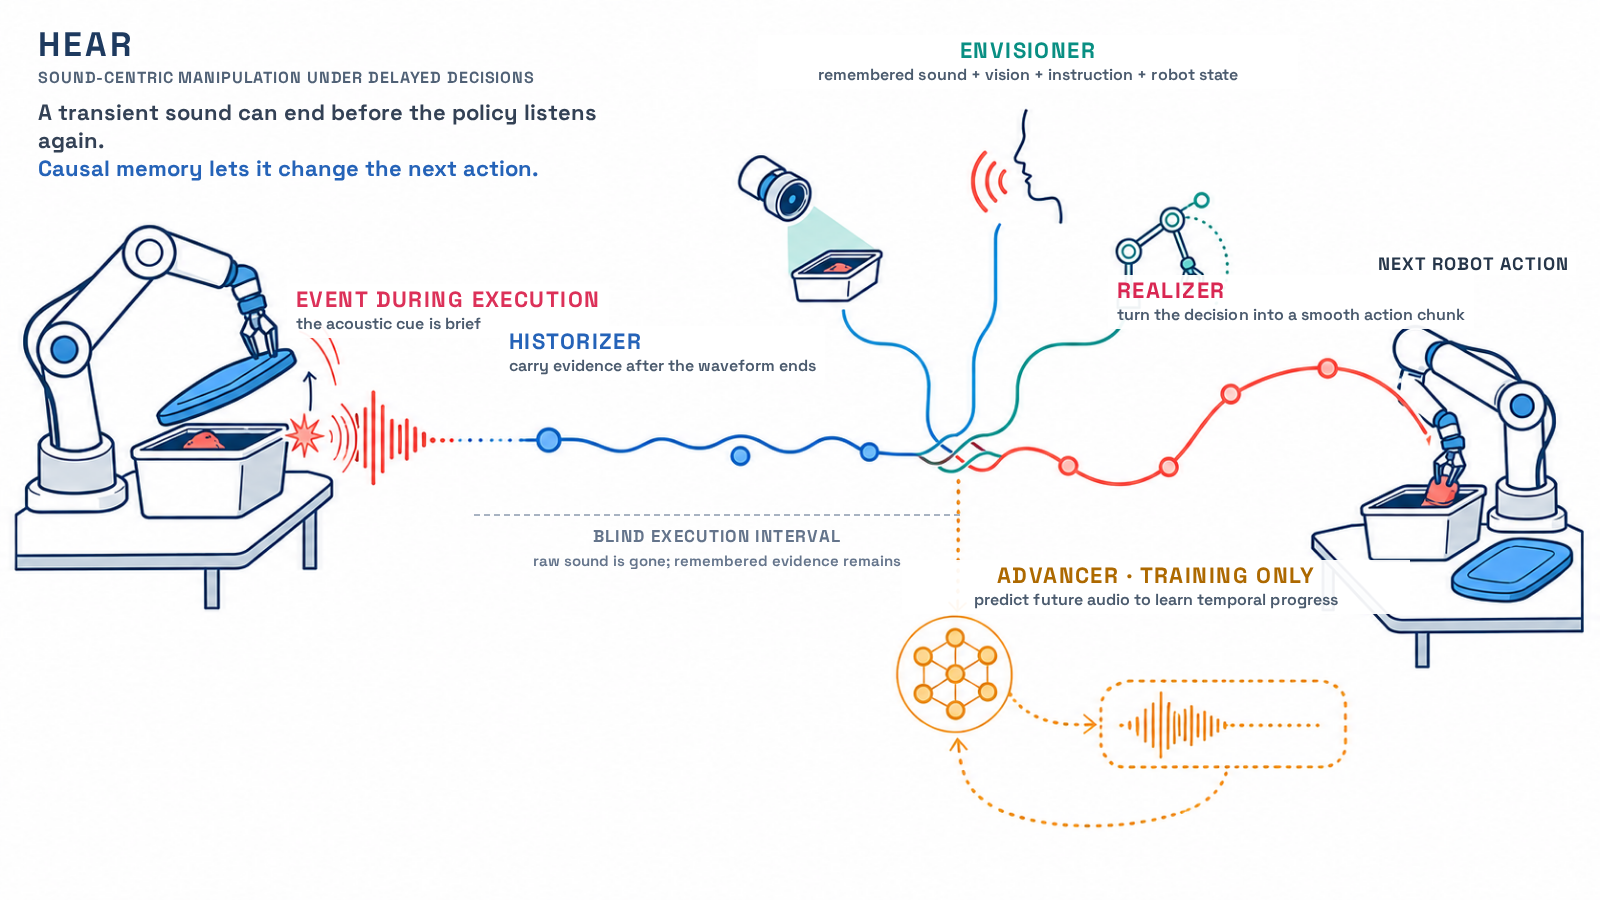
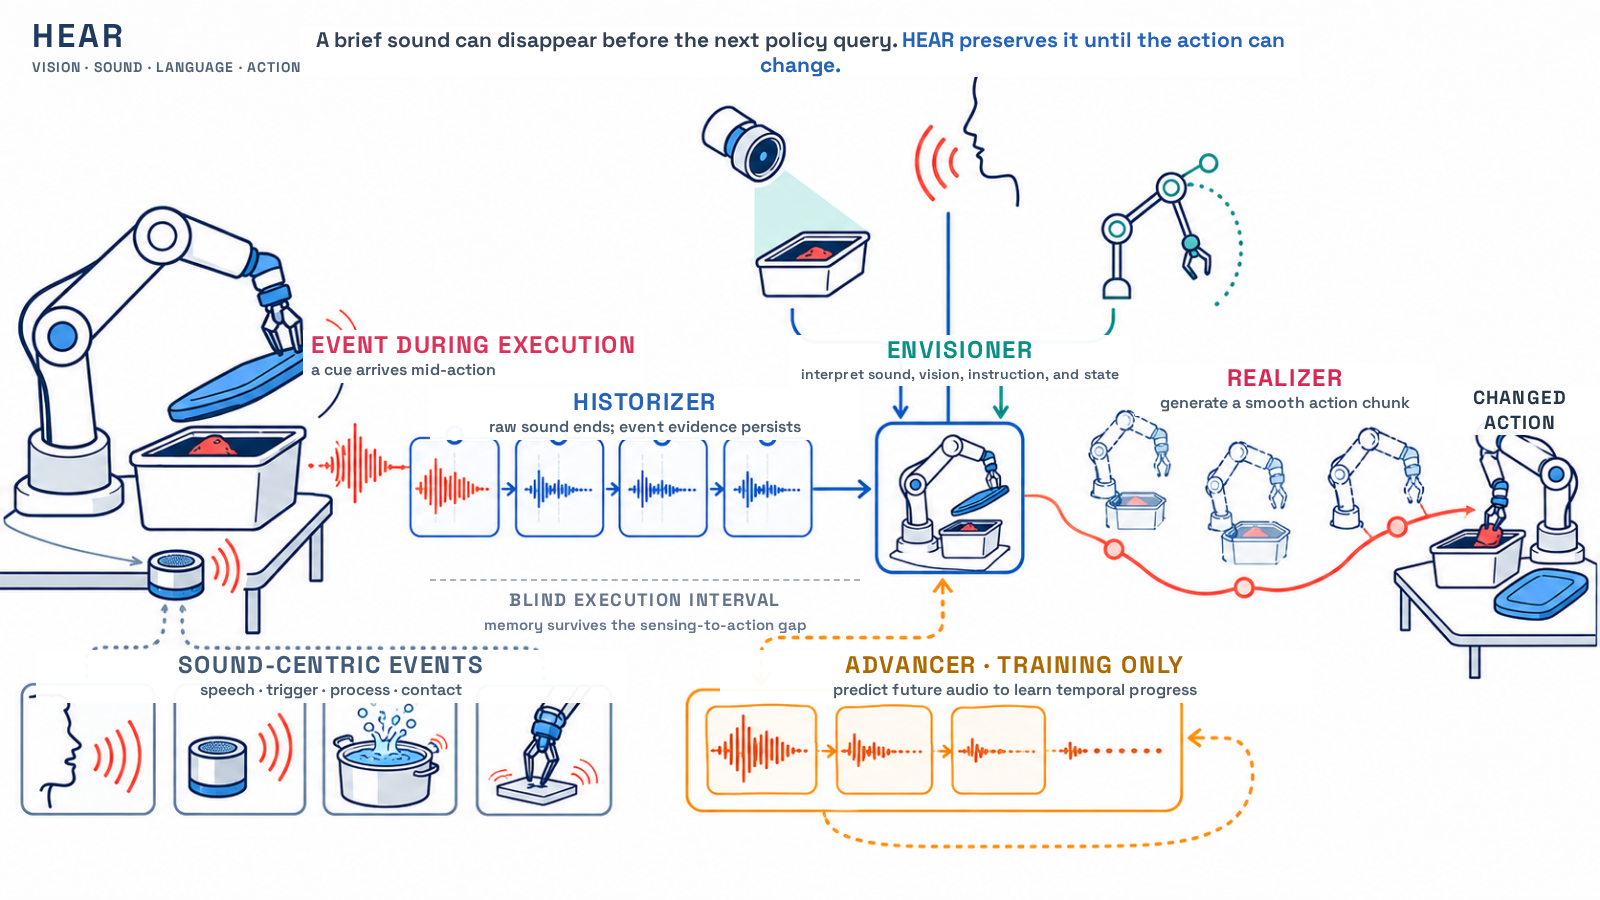
feat: make HEAR cover concrete and compact

diff --git a/assets/media/paper-covers/README.md b/assets/media/paper-covers/README.md
@@ -2,9 +2,9 @@
 
 The current cover redesign is being reviewed one paper at a time. `scripts/build-publication-covers.mjs` currently renders only the HEAR graphical-abstract sample. Its exact English labels are browser-rendered rather than generated pixels.
 
-## HEAR concept reconstruction sample
+## HEAR compact concept reconstruction sample
 
-`hear-concept-reconstruction-base-v4.png` was created with the built-in image-generation tool after reading the scientific meaning expressed by the paper's Figure 1 caption, Figure 2 caption, motivation, and architectural-overview prose in `/DataBig/hear_ijrr/HEAR_IJRR.tex`. The paper figures themselves were deliberately not supplied as visual references: this version reconstructs the causal story instead of copying their panel or block-diagram organization. The generated layer contains no typography; `scripts/build-publication-covers.mjs` overlays all exact English terminology and explanation deterministically.
+`hear-concrete-compact-base-v5.png` was created with the built-in image-generation tool after reading the scientific meaning expressed by the paper's Figure 1 caption, Figure 2 caption, motivation, and architectural-overview prose in `/DataBig/hear_ijrr/HEAR_IJRR.tex`. The paper figures themselves were deliberately not supplied as visual references: this version reconstructs the causal story instead of copying their panel or block-diagram organization. The generated layer contains no typography; `scripts/build-publication-covers.mjs` overlays all exact English terminology and explanation deterministically.
 
 Initial generation prompt:
 
@@ -29,6 +29,25 @@ Targeted refinement prompt:
 > Invariants: keep the left physical robot scene, the single coral sound event, the fact that the coral waveform ends, the blue persistent memory thread spanning time, the right coral smooth-action trajectory and later robot pose, the amber dotted training-only future-waveform loop, the pure white background, the wide asymmetrical composition, and all existing causal directions. Do not add any modules or claims.
 > Text constraints: no words, letters, numbers, equations, pseudo-text, logos, or watermarks.
 > Avoid: architecture boxes, stacked cards, circular input bubbles, speech bubbles, logo-like central symbols, neural-network dashboards, 3D, gradients, glow, neon, photorealism, advertising polish, decorative particles.
+
+Compact and concrete refinement prompt:
+
+> Use case: scientific-educational
+> Asset type: targeted refinement of the supplied 16:9 HEAR graphical-abstract base
+> Input image: edit target. Preserve its original causal story, white background, flat line-art language, and blue/teal/coral/amber semantics.
+> Primary request: Make the composition substantially denser and more concrete without turning it into a block diagram. Enlarge the meaningful visual content so it occupies roughly 85 percent of the canvas height and most of the width. Bring the two robot task scenes closer to the central reasoning area, reduce the long empty stretches of signal line, and move the amber training branch upward into the lower-middle region. Leave only a compact header-safe band at the top and small label-safe gaps around the causal stages; do not leave a large empty top half or empty lower-left quadrant.
+> Concrete scientific detail:
+> 1. At the left, make the short acoustic event visibly originate from a recognizable tabletop interaction while the robot is already moving. Keep the same robot, container, object, and sound pulse; add only a small physical event cue such as lid contact or a compact timer/speaker device, not a fantasy energy effect.
+> 2. Replace the mostly empty blue wavy span with a compact sequence of four small causal audio-memory packets. The first packet contains the captured coral event waveform; later packets retain a small blue event trace after the raw coral waveform has ended. They should read as persistent evidence carried across delayed decisions, not as four neural-network boxes.
+> 3. At the center, keep four modalities converging, but make their meaning more tangible: a camera view of the current tabletop scene, a spoken instruction icon, a robot joint-state/pose icon, and the remembered event packet converge into one compact task-state interpretation. Show a small, recognizable robot-plus-object task-state motif at the convergence point rather than an abstract logo.
+> 4. At the right, keep a smooth coral action trajectory but add two or three restrained intermediate gripper or robot-arm pose outlines along it, so it clearly represents a continuous action chunk leading to the changed final action.
+> 5. Make the amber training-only branch concrete and compact: the interpreted task state leads to a short sequence of predicted future audio packets or waveform frames, with a return-loop learning arrow. Keep this branch visually separate from deployment.
+> 6. Use the remaining lower-left space for four very small, evenly spaced sound-source examples from sound-centric manipulation: spoken instruction, a short trigger beep, a continuous bubbling/process sound, and contact/tap feedback. Connect them subtly to the main sound-event idea. These are scientific examples, not decorative icons.
+> Style/medium: crisp mature 2D scientific editorial line illustration with uniform thin strokes, restrained fills, consistent icon scale, and journal-graphical-abstract density. More detailed and authored, but still clean and scan-friendly.
+> Composition/framing: compact asymmetric left-to-right causal narrative; visually balanced; no large voids; no separate title panel; no row of architecture boxes; no copying or rearranging an existing paper figure.
+> Invariants: the original sound ends before the later decision; memory persists after the raw sound disappears; remembered sound, vision, instruction, and state meet at reasoning; smooth action is downstream; future-audio prediction is training-only. Preserve the pure white background and exact color roles.
+> Text constraints: no words, letters, numbers, equations, pseudo-text, logos, or watermarks. Leave clean local space for deterministic English labels added later.
+> Avoid: generic AI brain or neural-network symbol, large empty whitespace, stretched decorative curves, circular bubbles, glossy cards, presentation-slide layout, dense architecture diagram, 3D, gradients, glow, neon, sci-fi dashboard, advertising polish, photorealism, fuzzy edges, decorative particles.
 
 ## Earlier paper-texture source
 

diff --git a/content/publications/hear/index.md b/content/publications/hear/index.md
@@ -30,7 +30,7 @@ tags:
 featured: true
 image:
   caption: 'HEAR preserves a brief sound across delayed decisions so it can change the robot''s next smooth action.'
-  alt_text: 'Original white HEAR graphical abstract showing a sound event during robot execution, a blue causal-memory thread bridging the blind execution interval, multimodal signals weaving into reasoning, a coral trajectory to the next robot action, and an amber training-only future-audio loop.'
+  alt_text: 'Compact white HEAR graphical abstract showing a robot interaction producing a brief sound, four causal-memory packets spanning the blind execution interval, vision, speech, and state entering a concrete task interpretation, intermediate robot poses along a changed action chunk, four sound-event examples, and training-only future-audio prediction.'
 hugoblox:
   ids:
     arxiv: 2603.16086v1

diff --git a/content/publications/hear/index.zh.md b/content/publications/hear/index.zh.md
@@ -31,7 +31,7 @@ tags:
 featured: true
 image:
   caption: 'HEAR 跨越延迟决策保留短促声音，使它能够改变机器人的下一段平滑动作。'
-  alt_text: '原创白底 HEAR 图形摘要：执行中的声音事件转化为跨越盲执行区间的蓝色因果记忆线，多模态信号在中央汇合，珊瑚色轨迹通向下一步机器人动作，下方是仅训练期使用的未来声音预测环。'
+  alt_text: '紧凑白底 HEAR 图形摘要：机器人交互产生短促声音，四个因果记忆包跨越盲执行区间，视觉、语音与状态进入具体任务解释，多段机械臂姿态组成改变后的动作块；下方展示四类声音事件以及仅训练期使用的未来声音预测。'
 hugoblox:
   ids:
     arxiv: 2603.16086v1
